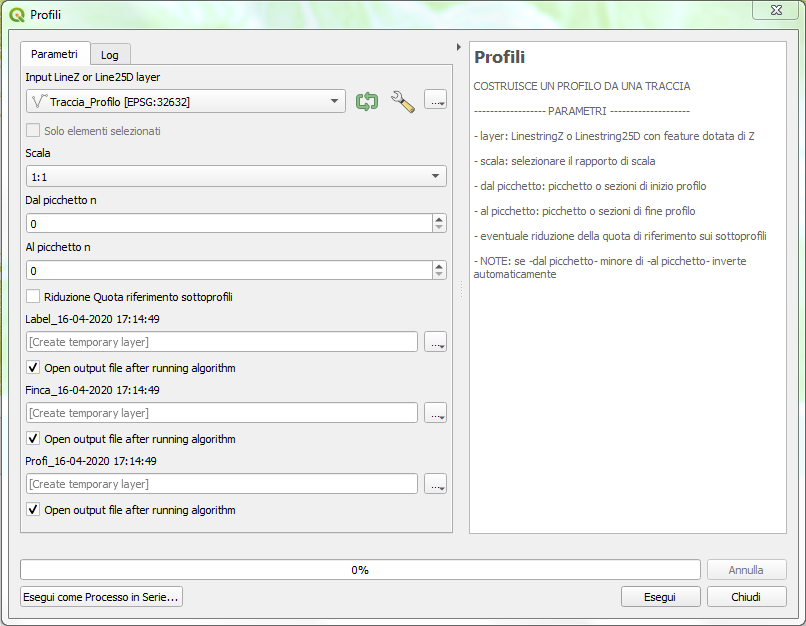
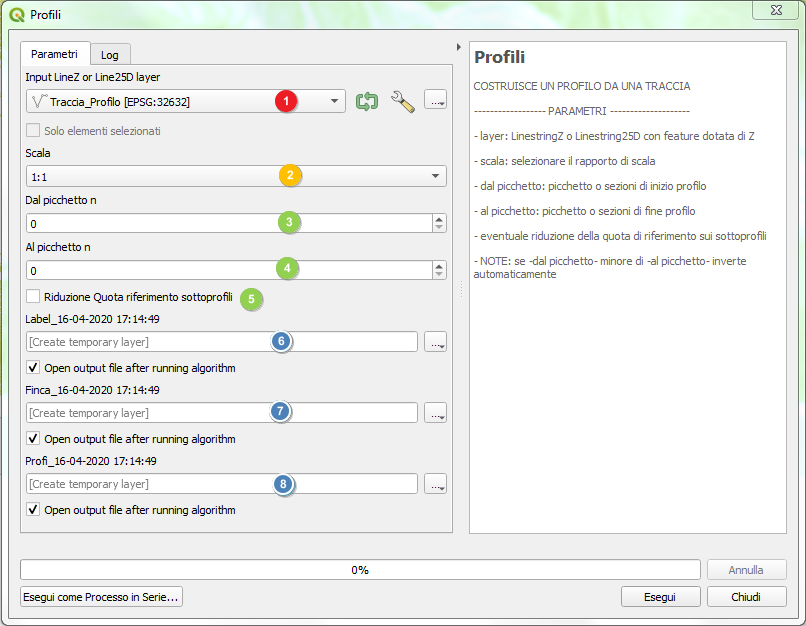
update

diff --git a/README.md b/README.md
@@ -16,18 +16,47 @@ Descrizione parametri:
 
 ![](./imgs/img_02.png)
 
-1. [**richiesto**] layer poligonale su cui scegliere la/e particelle da frazionare
-2. [**richiesto**]  layer linea su cui disegnare la linea di taglio desiderata
-3. [**richiesto** alternativo a 4] Denominatore della frazione di superficie da ottenere (ad esempio 1/3) o in alternativa il numero di parti eguali in cui dividere la particella/poligono
-4. [**richiesto** alternativo a 3] In alternativa al numero di parti è possibile specificare l’area che si vuole ottenere come area di risultato. 
-L’inserimento di una superficie target fa ignorare il parametro del punto 3
-5. [**opzionale**] Di default l’algoritmo produce un layer temporaneo che ha per nome ‘Fraz_’ seguito da data e ora, che dovrete salvare una volta raggiunto il risultato voluto
-6. [**opzionale**] Potrebbe essere necessario tagliare la particella con una linea vincolata (ad esempio una strada in progetto con la sua larghezza) in tal caso spuntando la casella verrà eseguito un taglio direttamente con la dividente indicata
-7. [**opzionale**] Spuntare se si vogliono n parti della medesima superficie (ovviamente per n maggiore di 2) 
-8. [**opzionale**] Poiché la ricerca della posizione della dividente secondo i parametri impostati dipende da come è posizionato il centroide della geometria poligonale, potrebbe ottenersi, nel caso di divisione per frazione (ad esempio 1/3) o nel caso di superficie assegnata, la parte risultante nella posizione non desiderata, spuntando è possibile invertire la posizione rispetto alla dividente.
+1. [**richiesto**] layer LinestringZ o Linestring25D su cui giace la traccia
+2. [**opzione**] scala di disegno normalmente 1:1 (si scala in stampa) [disponibili 1:1, 1:10, 1:2, 1:20]
+3. [**opzione**] Picchetto o sezione di partenza del profilo
+4. [**opzione**] Picchetto o sezione di arrivo del profilo
+   NOTA: i valori si desumono del profilo una volta eseguito, il primo valore deve essere minore del seconto, eventuale svista di inserimento viene corretta automaticamente dal programma scambiando i valori  
+5. [**opzionale**] In caso di subprofilo è possibile ridurre automaticamente la    nuova quota di riferimento
+6. [**opzionale**] Layer puntuale di risultato per le etichette
+7. [**opzionale**] Layer line di risultato delle candele e delle fincature
+8. [**opzionale**] Layer line di risultato della traccia del profilo
+   
+## Modalità operative
+Una volta caricato il layer della tracce selezionandone una è possibile ottenerne il profilo, se ve ne son presenti più di una verranno disegnate anche le altre.
+Per scelta il profilo viene disegnato sul canvas a partire dall'origine (0,0), soltanto i subprofili (parti di profilo da sezione xx a sezione yy) vengono disegnati nella posizione a cui corrisponde la progressiva.
 
-## Layer necessari
-Un layer contenente una o più tracce di cui fare il profilo
+![](./imgs/img_03.png)
 
-## Esecuzione
-Dopo aver caricato nei 
+## AVVERTENZE
+Solo linestring 3D vengono riconosciute dall'algoritmo
+
+## Esempio
+
+Frazionamento incrociato in parti eguali
+
+[![](./imgs/esempio1.PNG)](https://youtu.be/sPACEtsRn6M "Primo Esempio")
+
+Frazionamento in parti complementari o direttamente da dividente
+
+[![](./imgs/esempio2.PNG)](https://youtu.be/XRjeuAj3QAA "Secondo esempio")
+
+
+Frazionamento a superficie vincolata
+
+[![](./imgs/esempio3.PNG)](https://youtu.be/RHOEGsowpWU "Terzo esempio")
+
+https://github.com/Korto19/Profili/blob/master/Profili.py
+
+## APPENDICE
+Per poter estrarre tracce 3d da piani a curve di livello si è realizzato, con il modellatore grafico, un processo che date le curve di livello e la linea di traccia produce in un solo passaggio la traccia del profilo in 3D
+
+![](./imgs/img_04.png)
+
+per funzionare occorre che il layer si chiami obbligatoriamente **Traccia**, da questo produrrà un nuovo layer **Traccia_profilo** da passare all'algoritmo Profili.
+
+https://github.com/Korto19/Profili/blob/master/Profili.py
